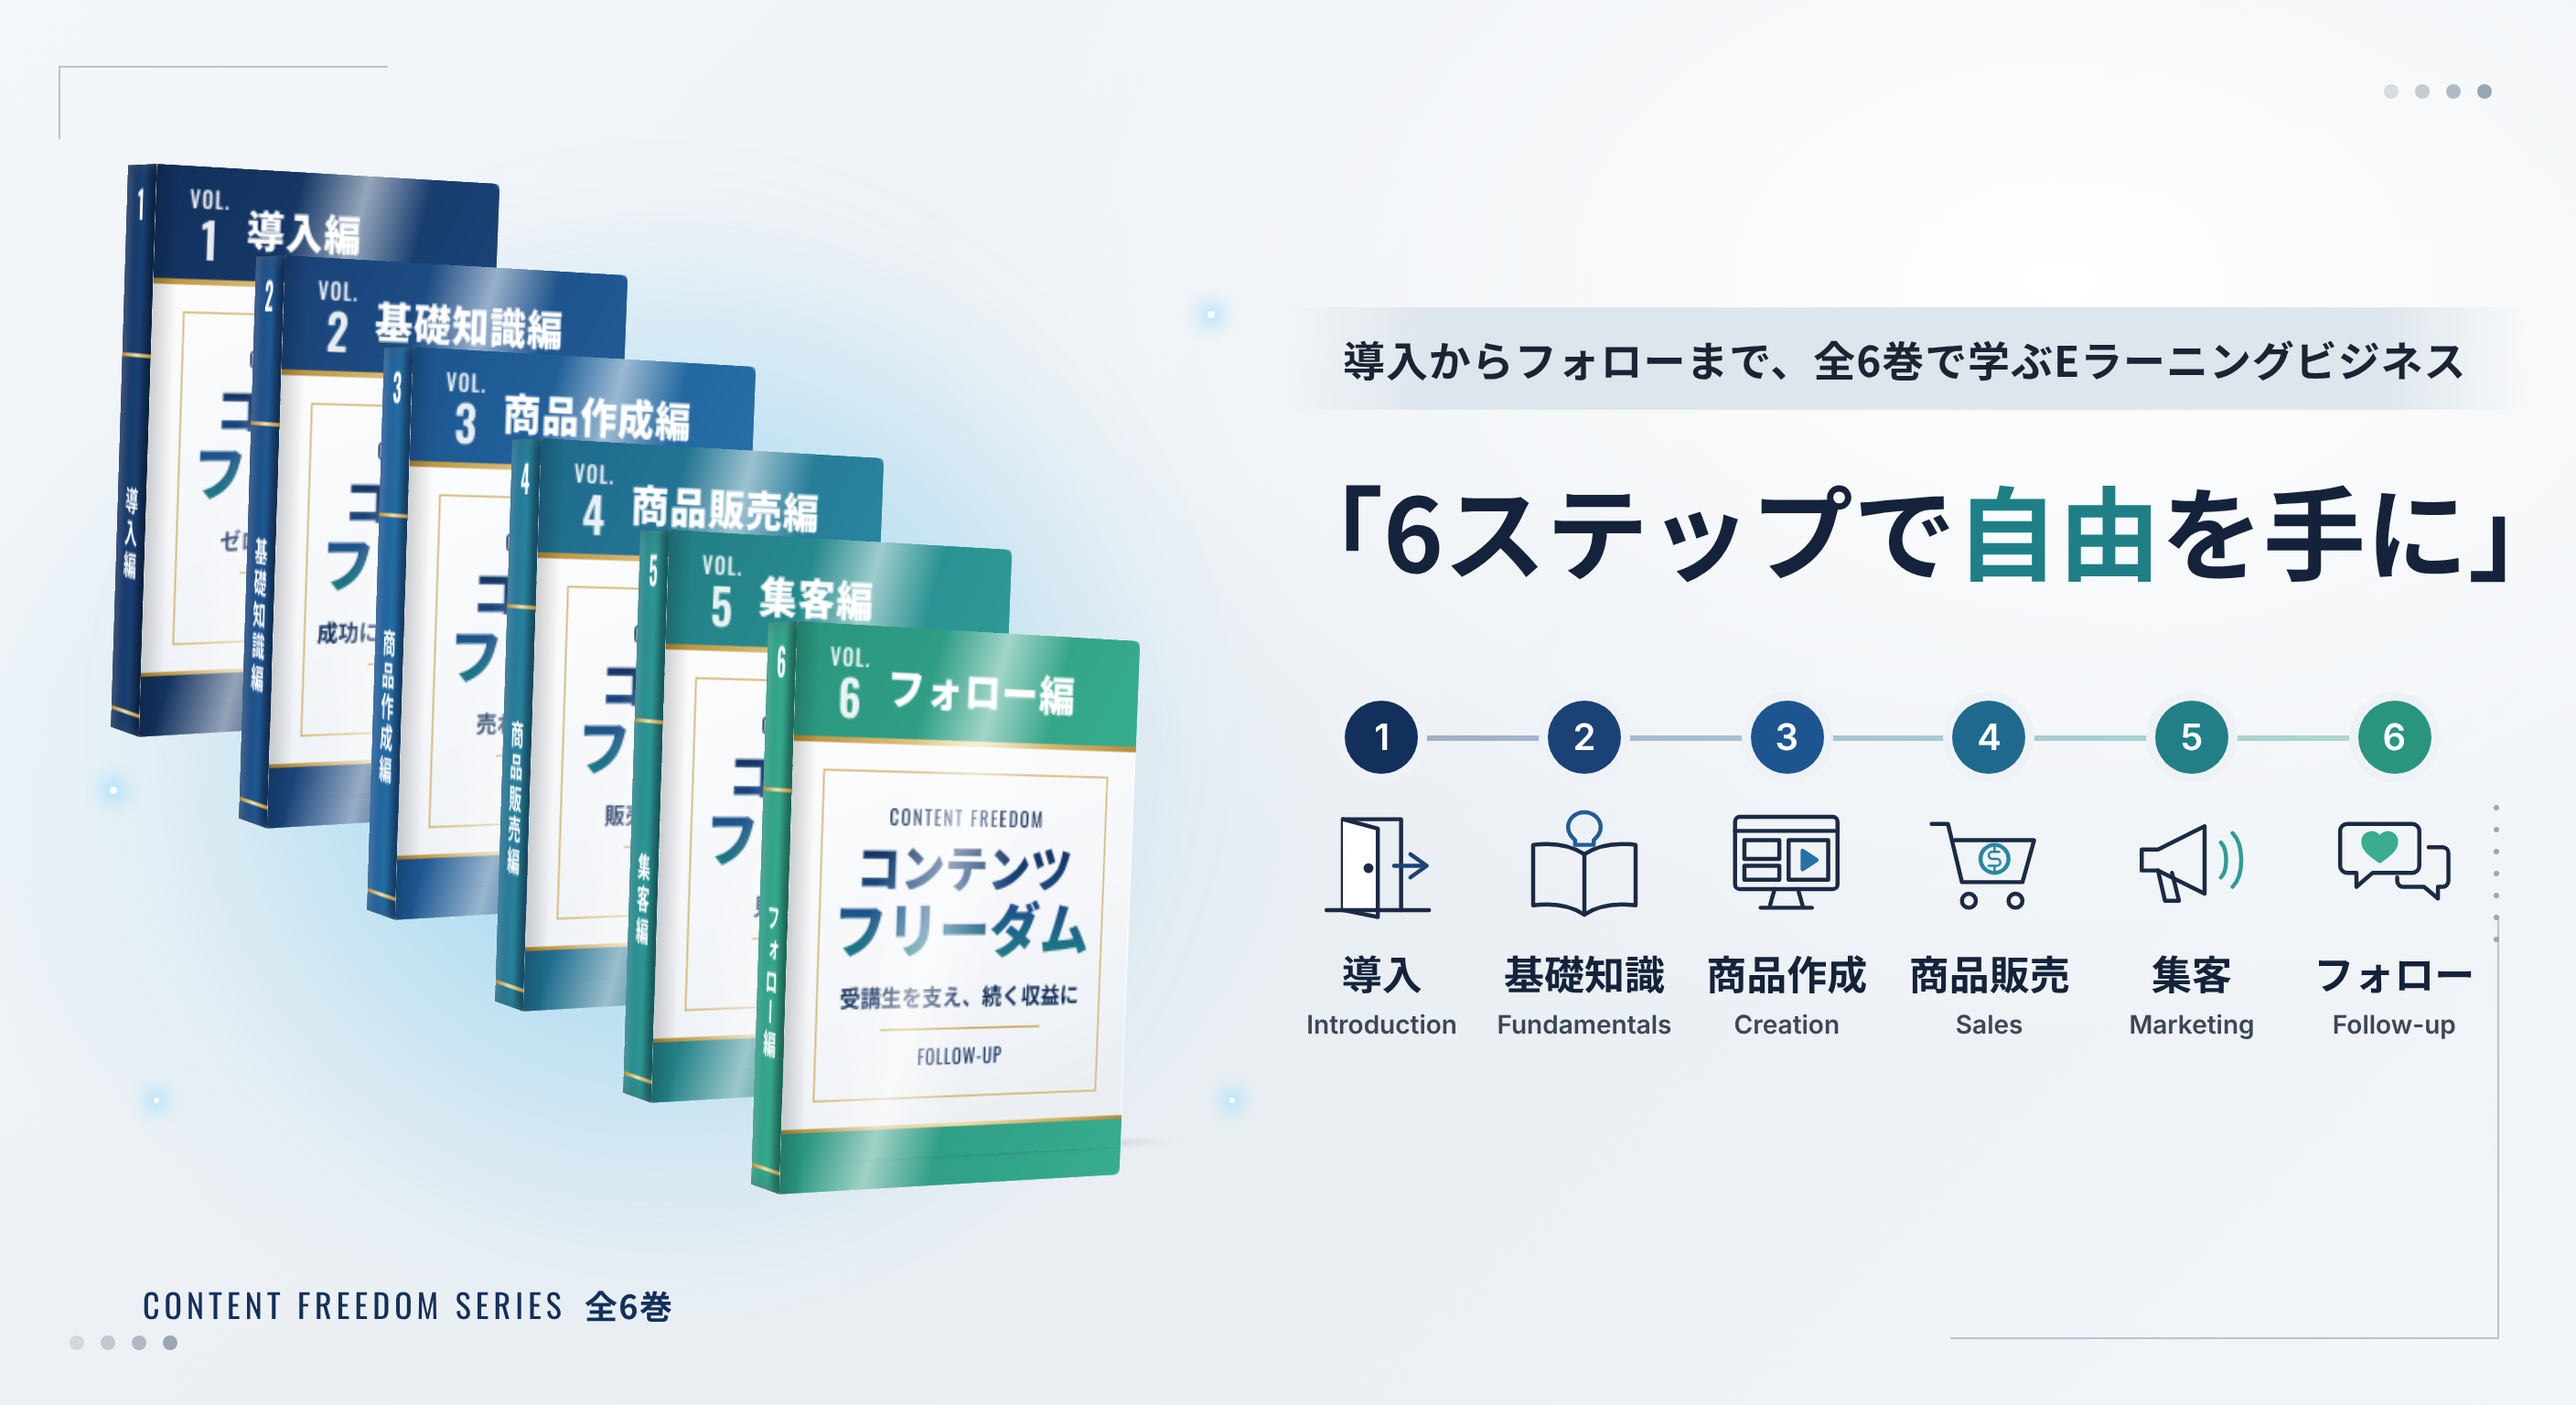
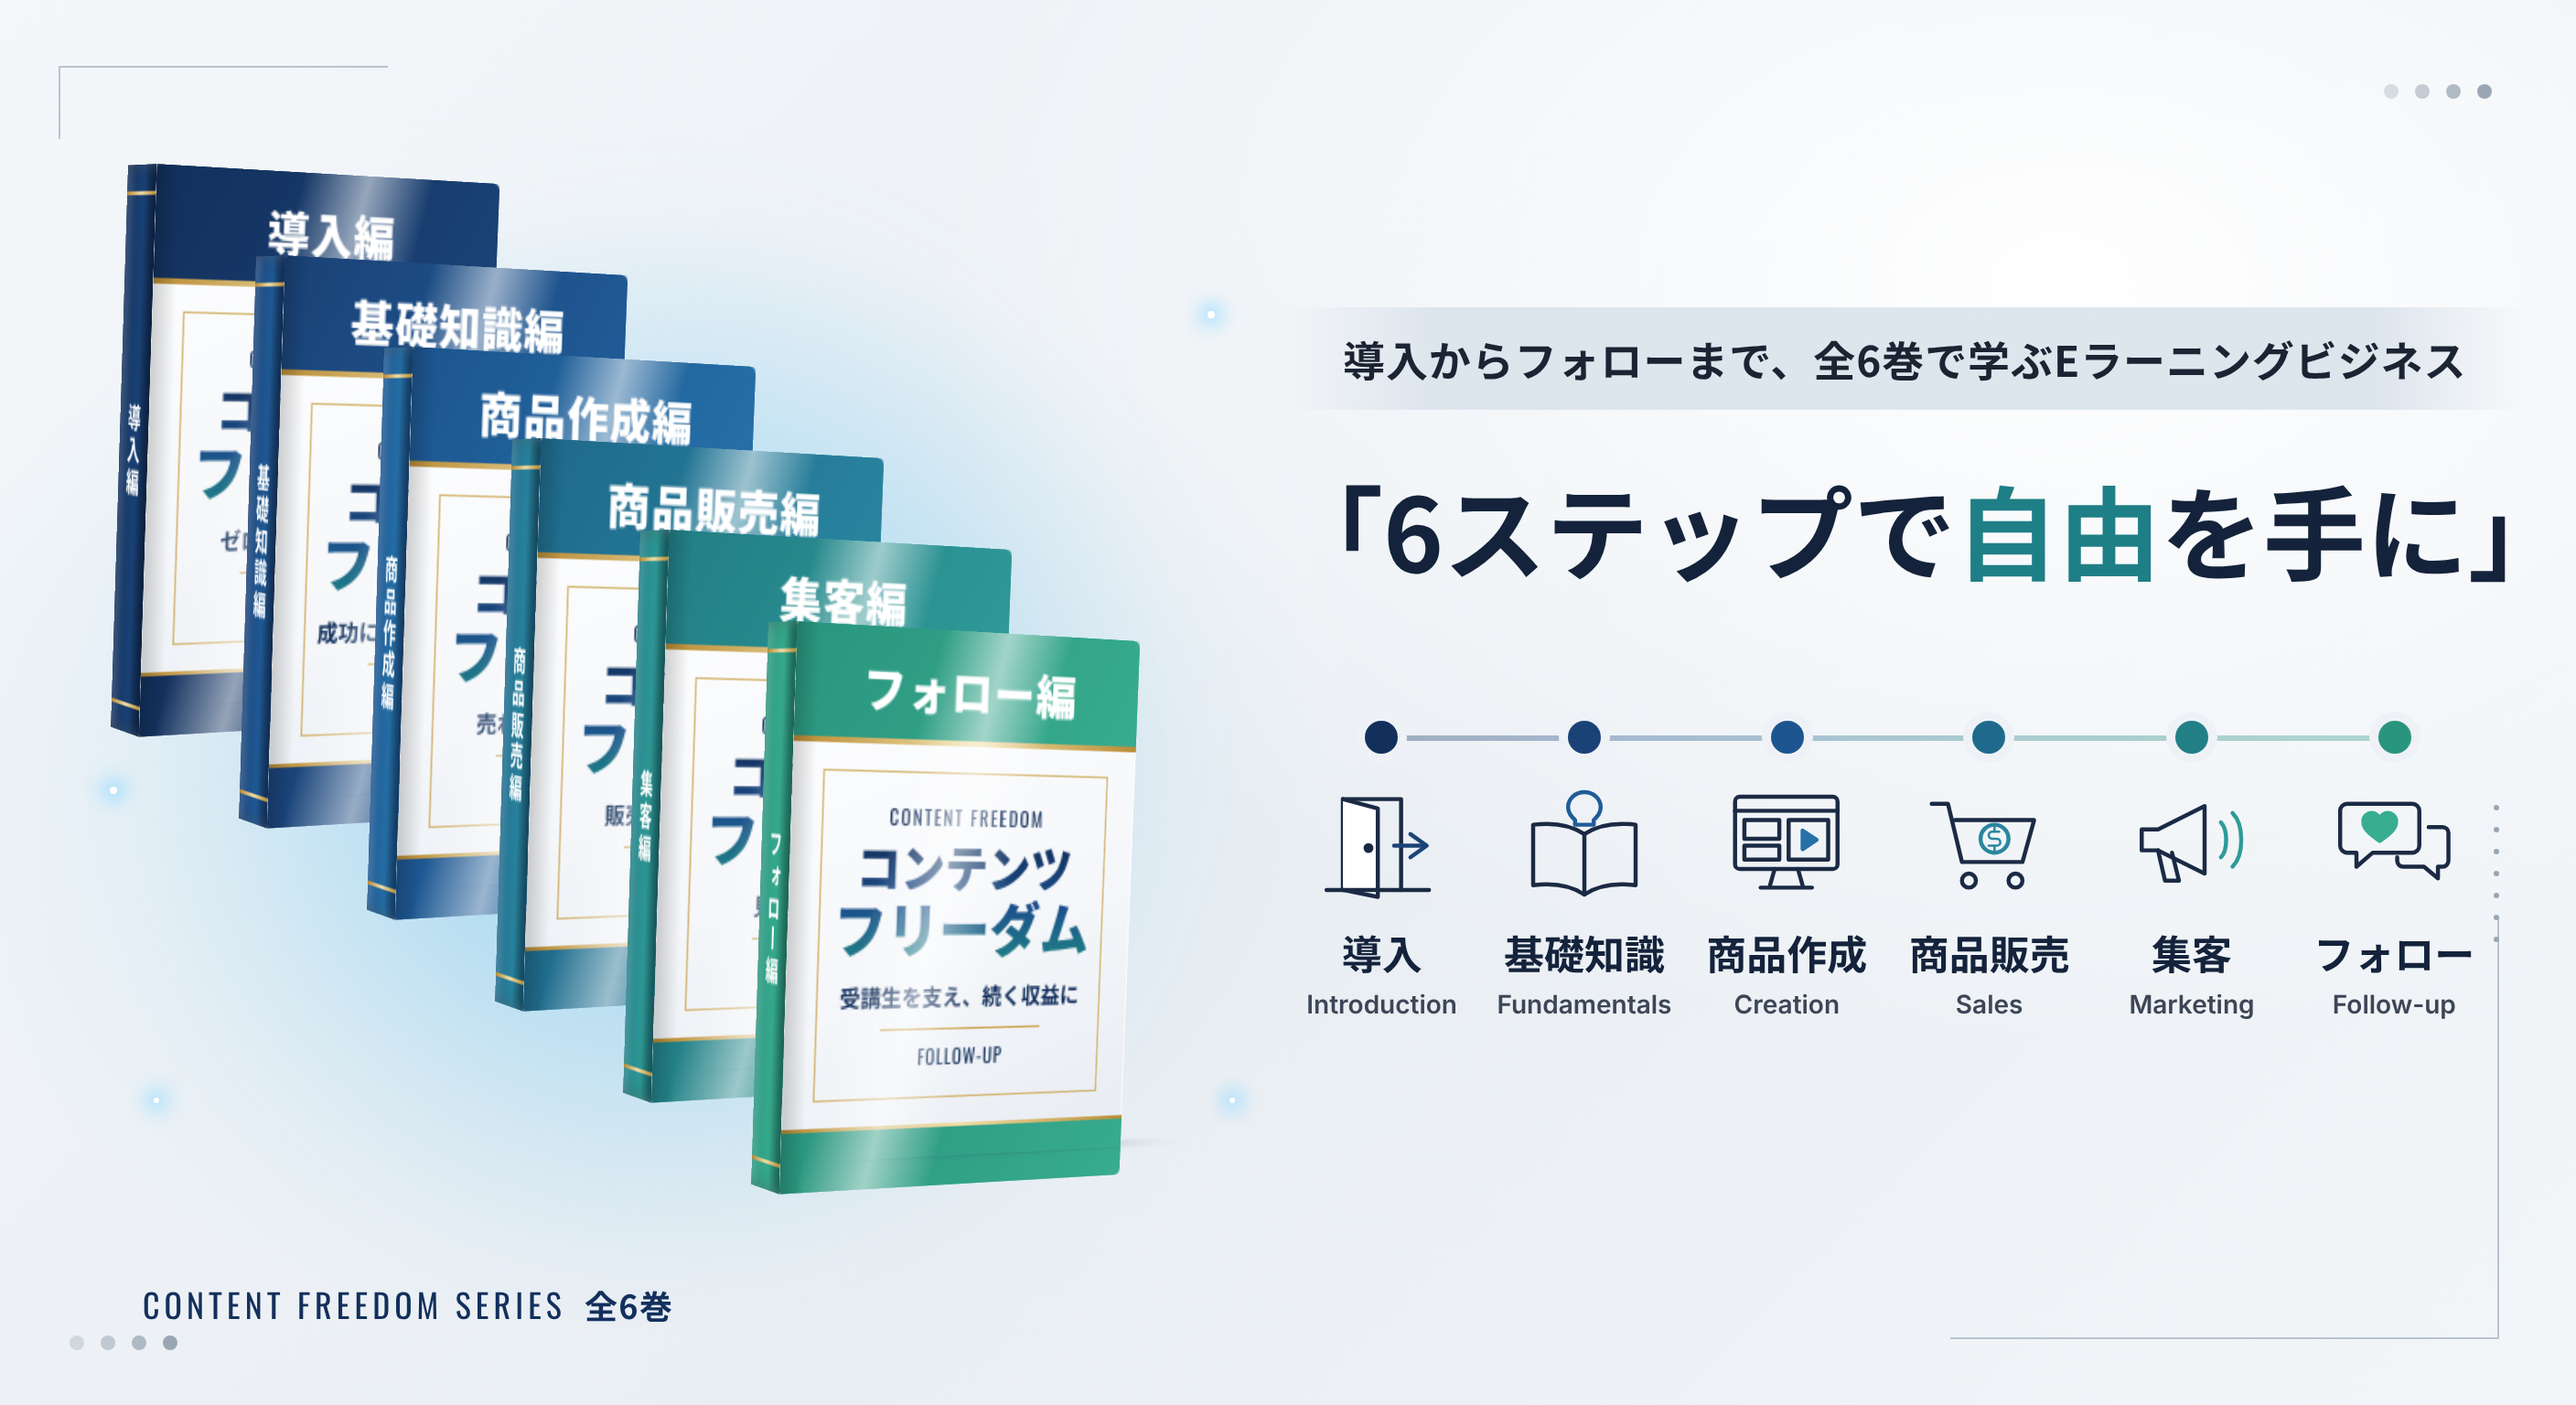
Remove volume and step numbers from catch image
Claude-Session: https://claude.ai/code/session_01B6jzY4wT8CYfyJRjWWeuhY

diff --git a/content-freedom-catch/index.html b/content-freedom-catch/index.html
@@ -76,7 +76,7 @@
   .spine {
     width: var(--bt); height: var(--bh); left: calc((var(--bw) - var(--bt)) / 2);
     transform: rotateY(-90deg) translateZ(calc(var(--bw) / 2));
-    display: flex; flex-direction: column; align-items: center; justify-content: space-between; padding: 10px 0;
+    display: flex; flex-direction: column; align-items: center; justify-content: space-between; padding: 14px 0;
     color: #fff; box-shadow: inset 6px 0 8px rgba(255,255,255,.18), inset -8px 0 10px rgba(0,0,0,.35);
   }
   .spine .sv { font-family: "Oswald", sans-serif; font-size: 13px; line-height: 1; text-align: center; }
@@ -95,12 +95,12 @@
   }
   .band {
     position: absolute; left: 0; right: 0; top: 0; height: 62px;
-    display: flex; align-items: center; gap: 10px; padding-left: 20px; color: #fff;
+    display: flex; align-items: center; justify-content: center; color: #fff;
   }
   .band::after { content: ""; position: absolute; left: 0; right: 0; bottom: 0; height: 3px; background: linear-gradient(90deg, #b98c35, #f1dfa6, #b98c35); }
   .vol { font-family: "Oswald", sans-serif; font-weight: 500; font-size: 12px; letter-spacing: .08em; line-height: 1; text-align: center; opacity: .9; }
   .vol b { display: block; font-size: 26px; font-weight: 600; letter-spacing: 0; margin-top: 2px; }
-  .part { font-weight: 900; font-size: 23px; letter-spacing: .03em; white-space: nowrap; }
+  .part { font-weight: 900; font-size: 26px; letter-spacing: .03em; white-space: nowrap; }
   .foot { position: absolute; left: 0; right: 0; bottom: 0; height: 34px; }
   .foot::before { content: ""; position: absolute; left: 0; right: 0; top: 0; height: 2px; background: linear-gradient(90deg, #b98c35, #f1dfa6, #b98c35); }
   .frame { position: absolute; left: 18px; right: 18px; top: 76px; bottom: 48px; border: 1px solid rgba(201,162,74,.75); }
@@ -139,7 +139,7 @@
   }
   .step { position: relative; display: flex; flex-direction: column; align-items: center; }
   .num {
-    width: 40px; height: 40px; border-radius: 50%; position: relative;
+    width: 18px; height: 18px; margin-top: 11px; border-radius: 50%; position: relative;
     color: #fff; font-family: "Inter", sans-serif; font-weight: 600; font-size: 20px;
     display: flex; align-items: center; justify-content: center; box-shadow: 0 0 0 5px #eef2f6;
   }
@@ -219,11 +219,11 @@
       <div class="face top"></div>
       <div class="face pages"></div>
       <div class="face spine" style="background:linear-gradient(90deg, ${C[i]}, ${C2[i]} 60%, ${C[i]})">
-        <div class="sv"><b>${i + 1}</b></div><div class="sg"></div>
+        <div class="sg"></div>
         <div class="st">${v.part}</div><div class="sg"></div>
       </div>
       <div class="face front">
-        <div class="band" style="background:${g}"><div class="vol">VOL.<b>${i + 1}</b></div><div class="part">${v.part}</div></div>
+        <div class="band" style="background:${g}"><div class="part">${v.part}</div></div>
         <div class="frame"></div>
         <div class="inner">
           <div class="en">CONTENT FREEDOM</div>
@@ -239,7 +239,7 @@
 
   document.getElementById('steps').innerHTML = vols.map((v, i) => `
     <div class="step">
-      <div class="num" style="background:${C[i]}">${i + 1}</div>
+      <div class="num" style="background:${C[i]}"></div>
       <svg class="icon" viewBox="0 0 110 96" fill="none" stroke="#1b2a44" stroke-width="3.5" stroke-linejoin="round" stroke-linecap="round">
         ${ICONS[i].replaceAll('"A"', `"${C2[i]}"`)}
       </svg>
